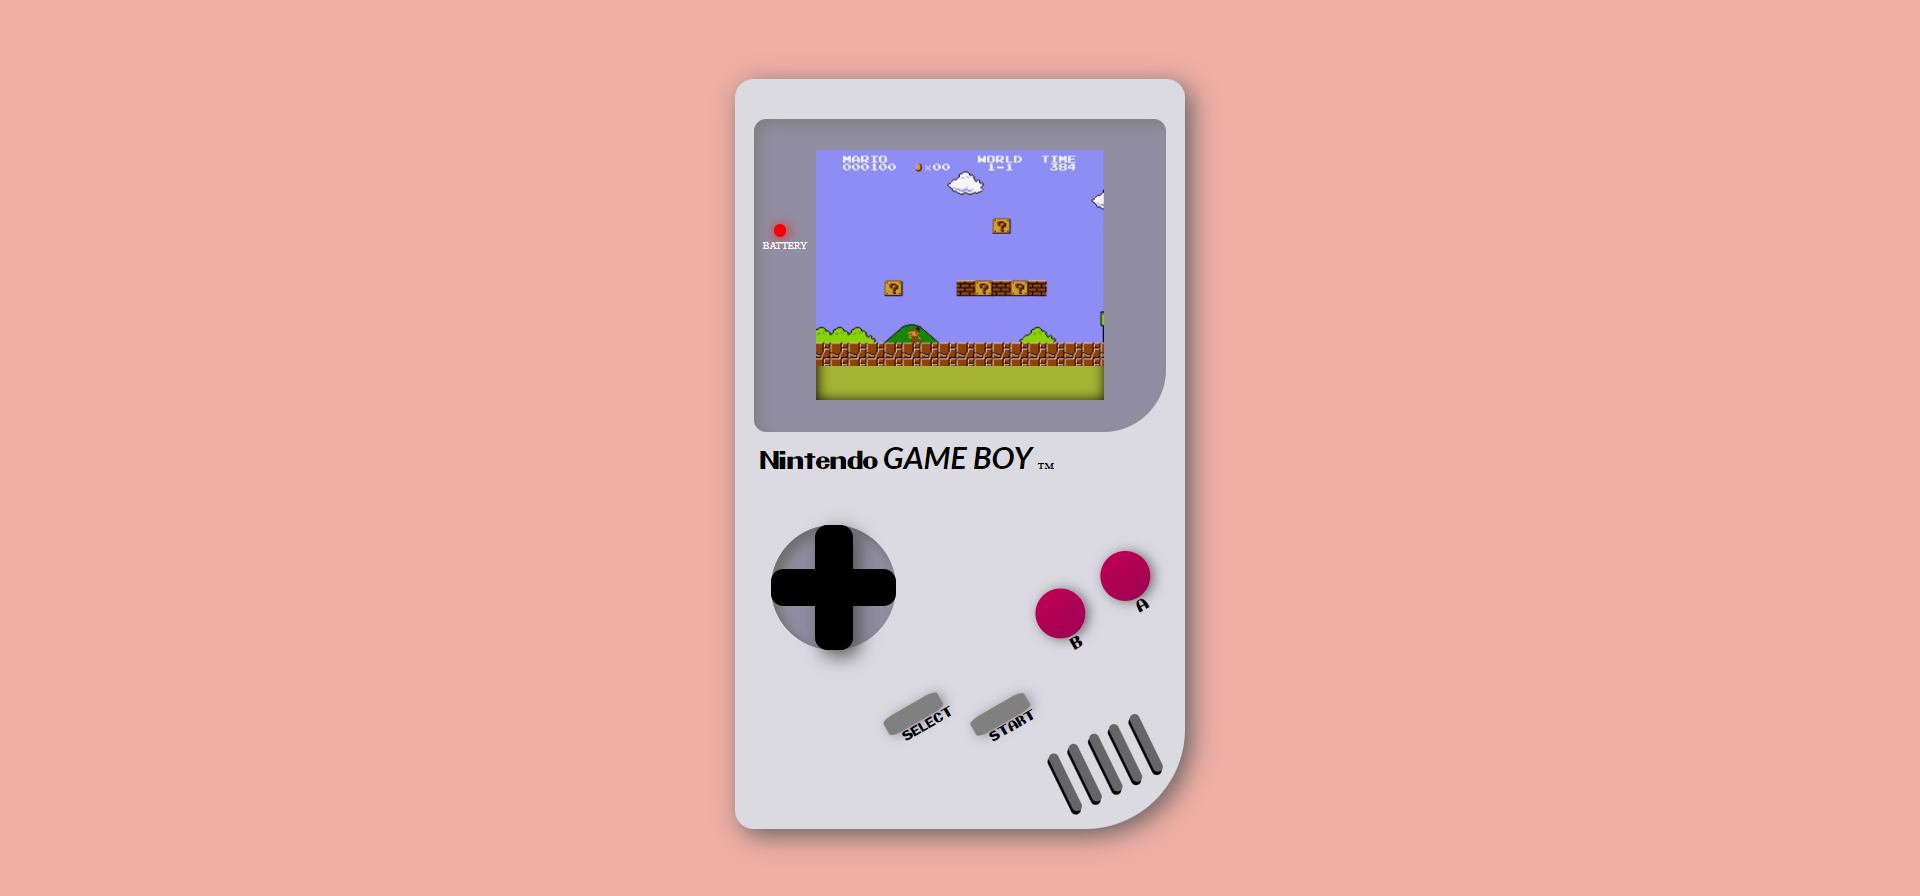
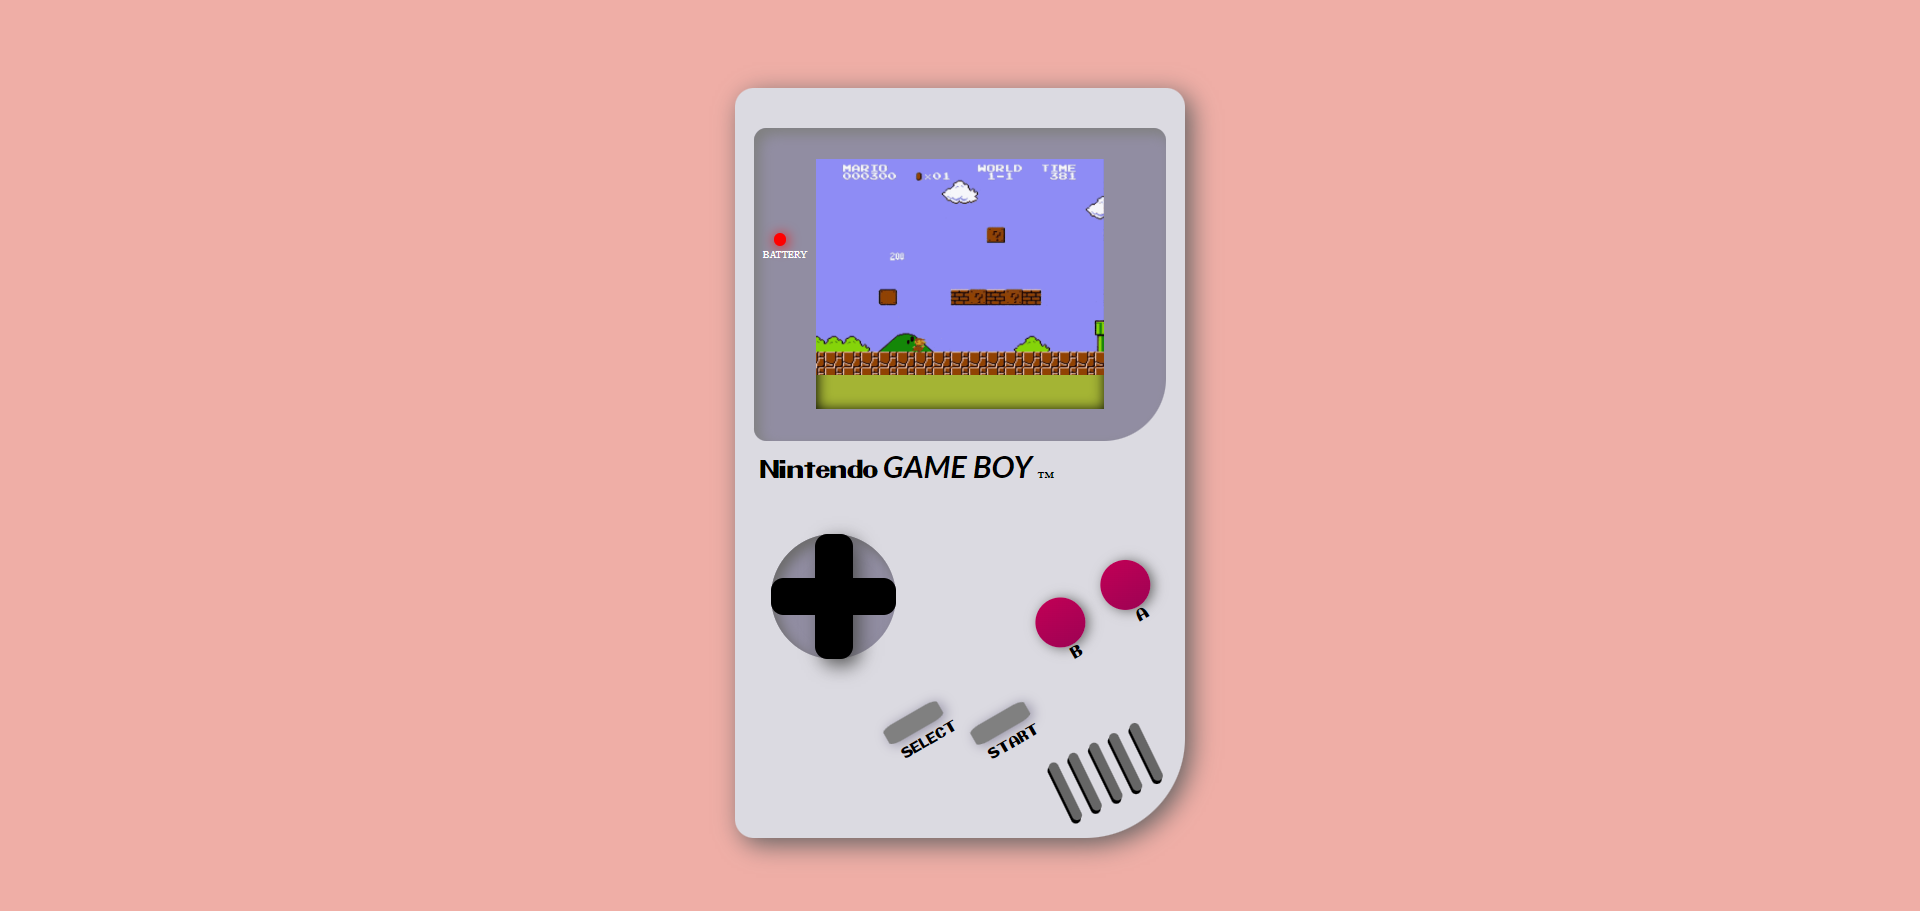
modified

diff --git a/style.css b/style.css
@@ -209,8 +209,8 @@ body {
 
 .botones-secundarios span {
   position: absolute;
-  margin: 15px 9px;
-  font-size: 10px;
+  margin: 20px 5px;
+  font-size: 11px;
 }
 
 .speaker {
